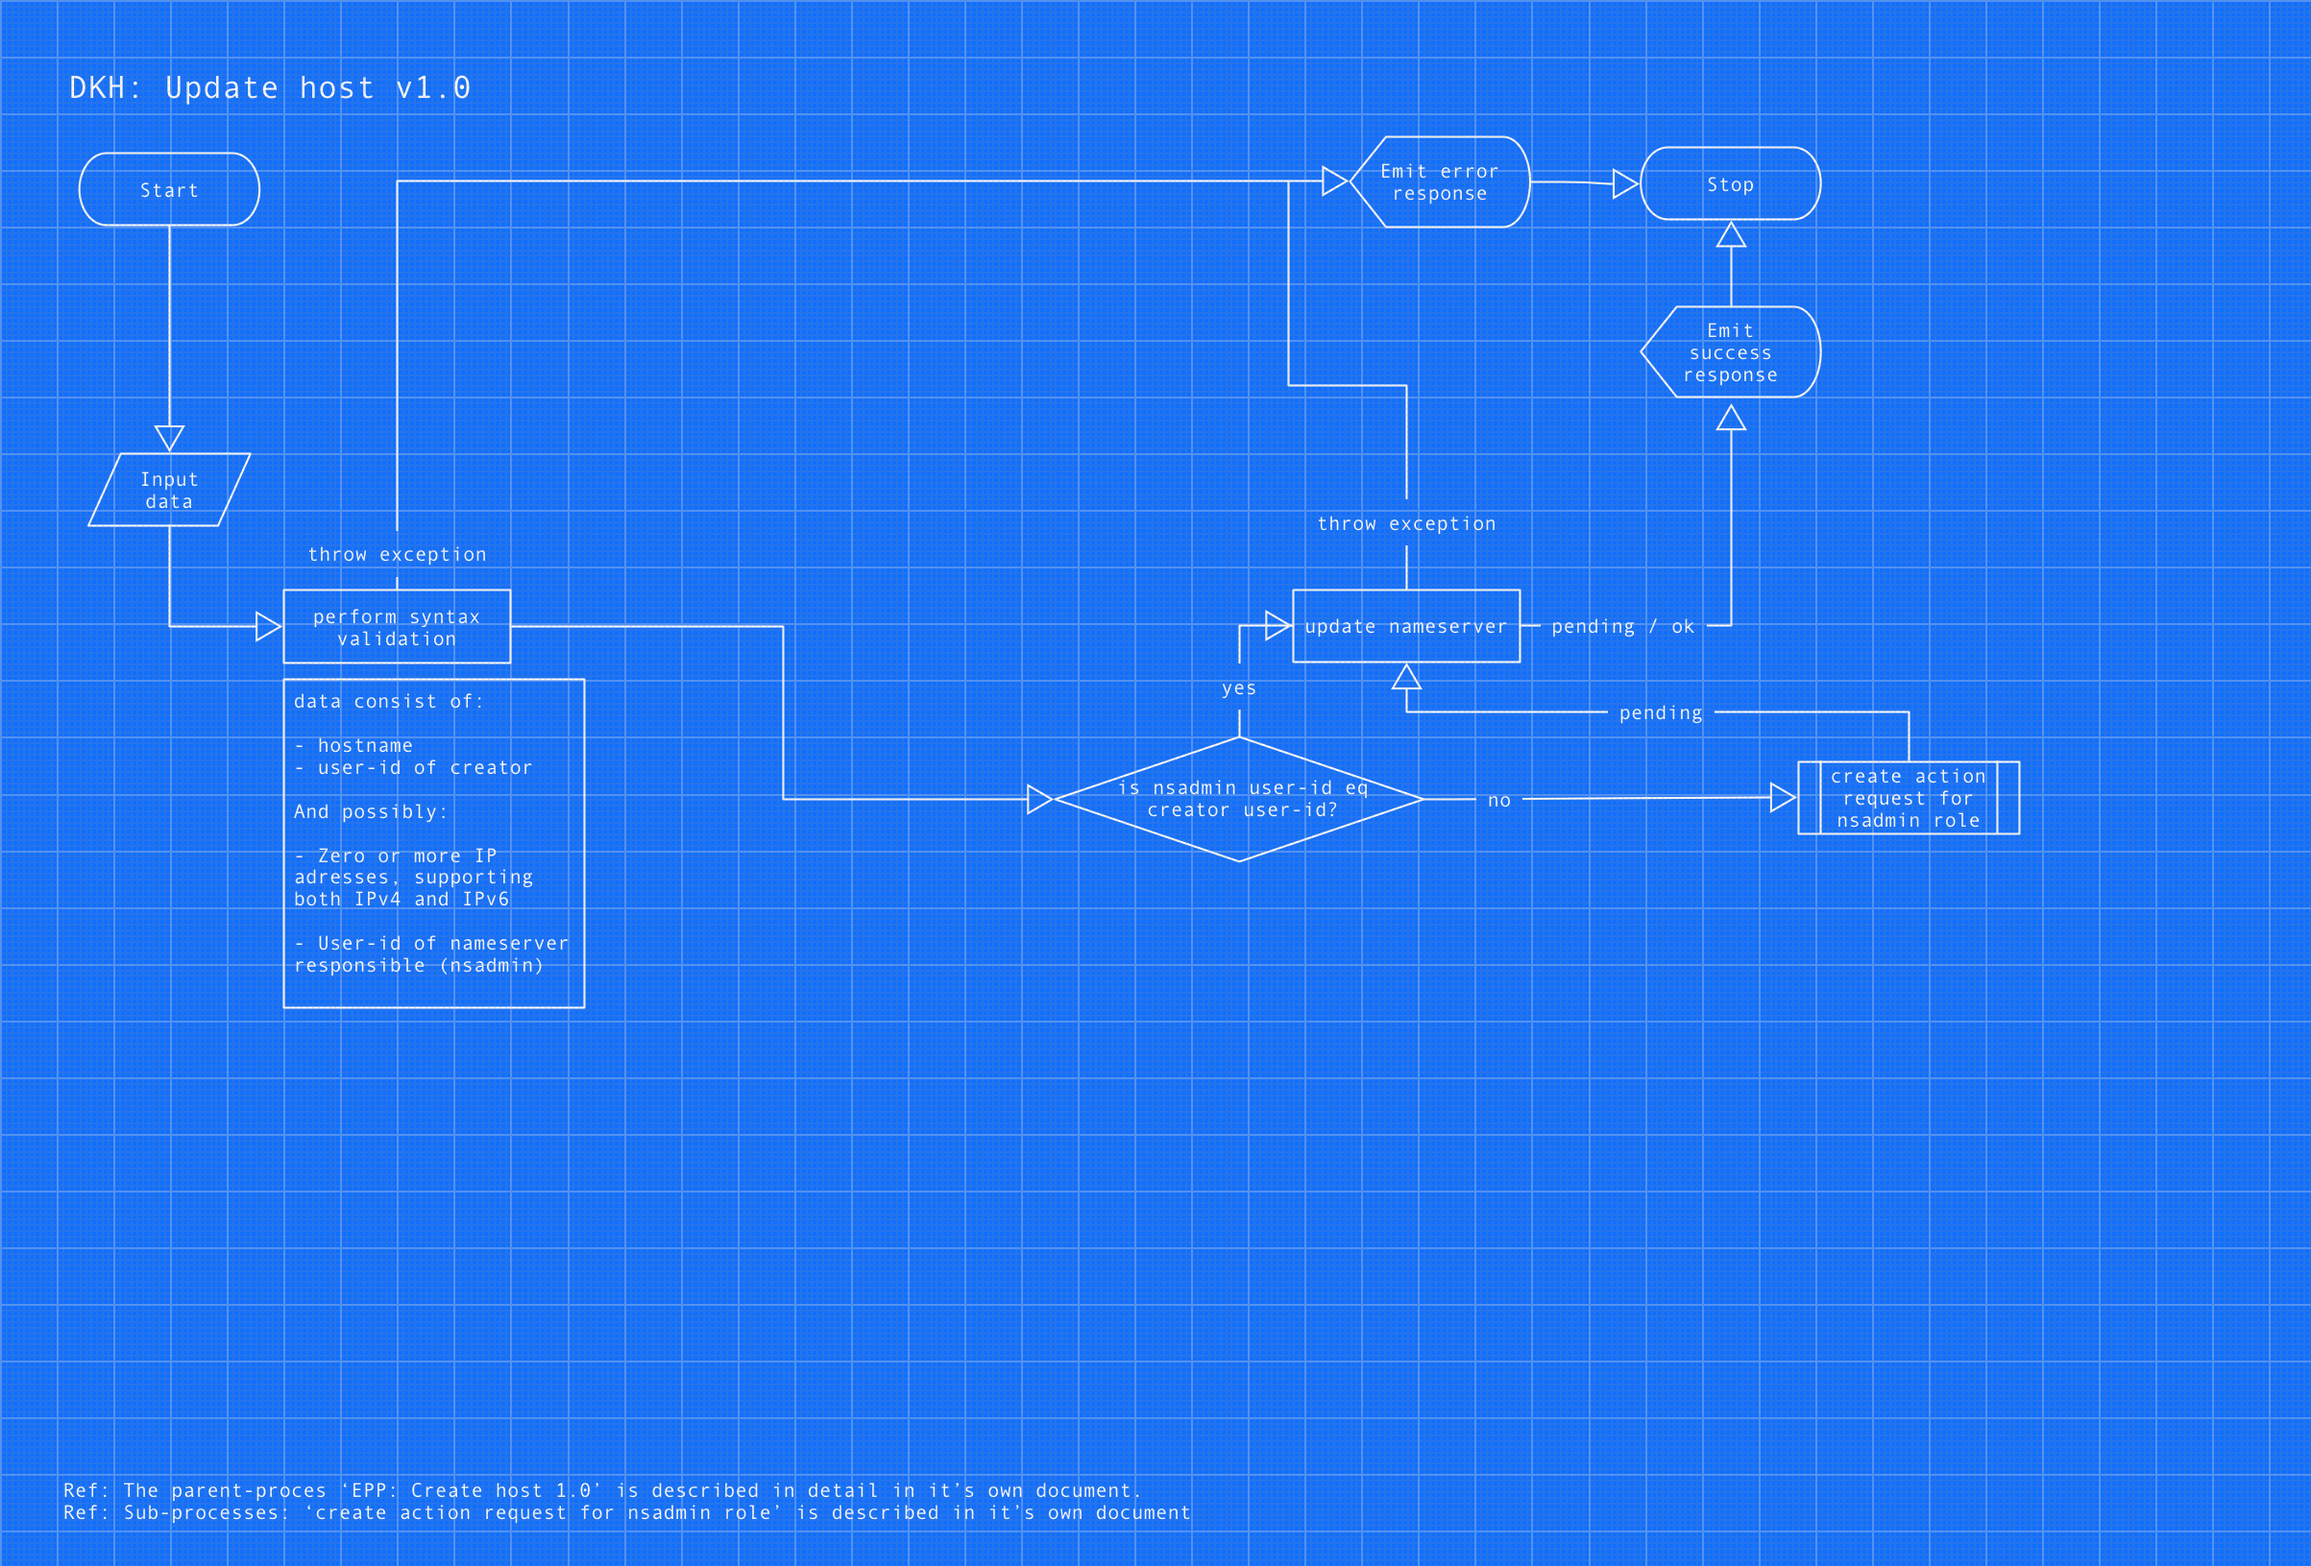
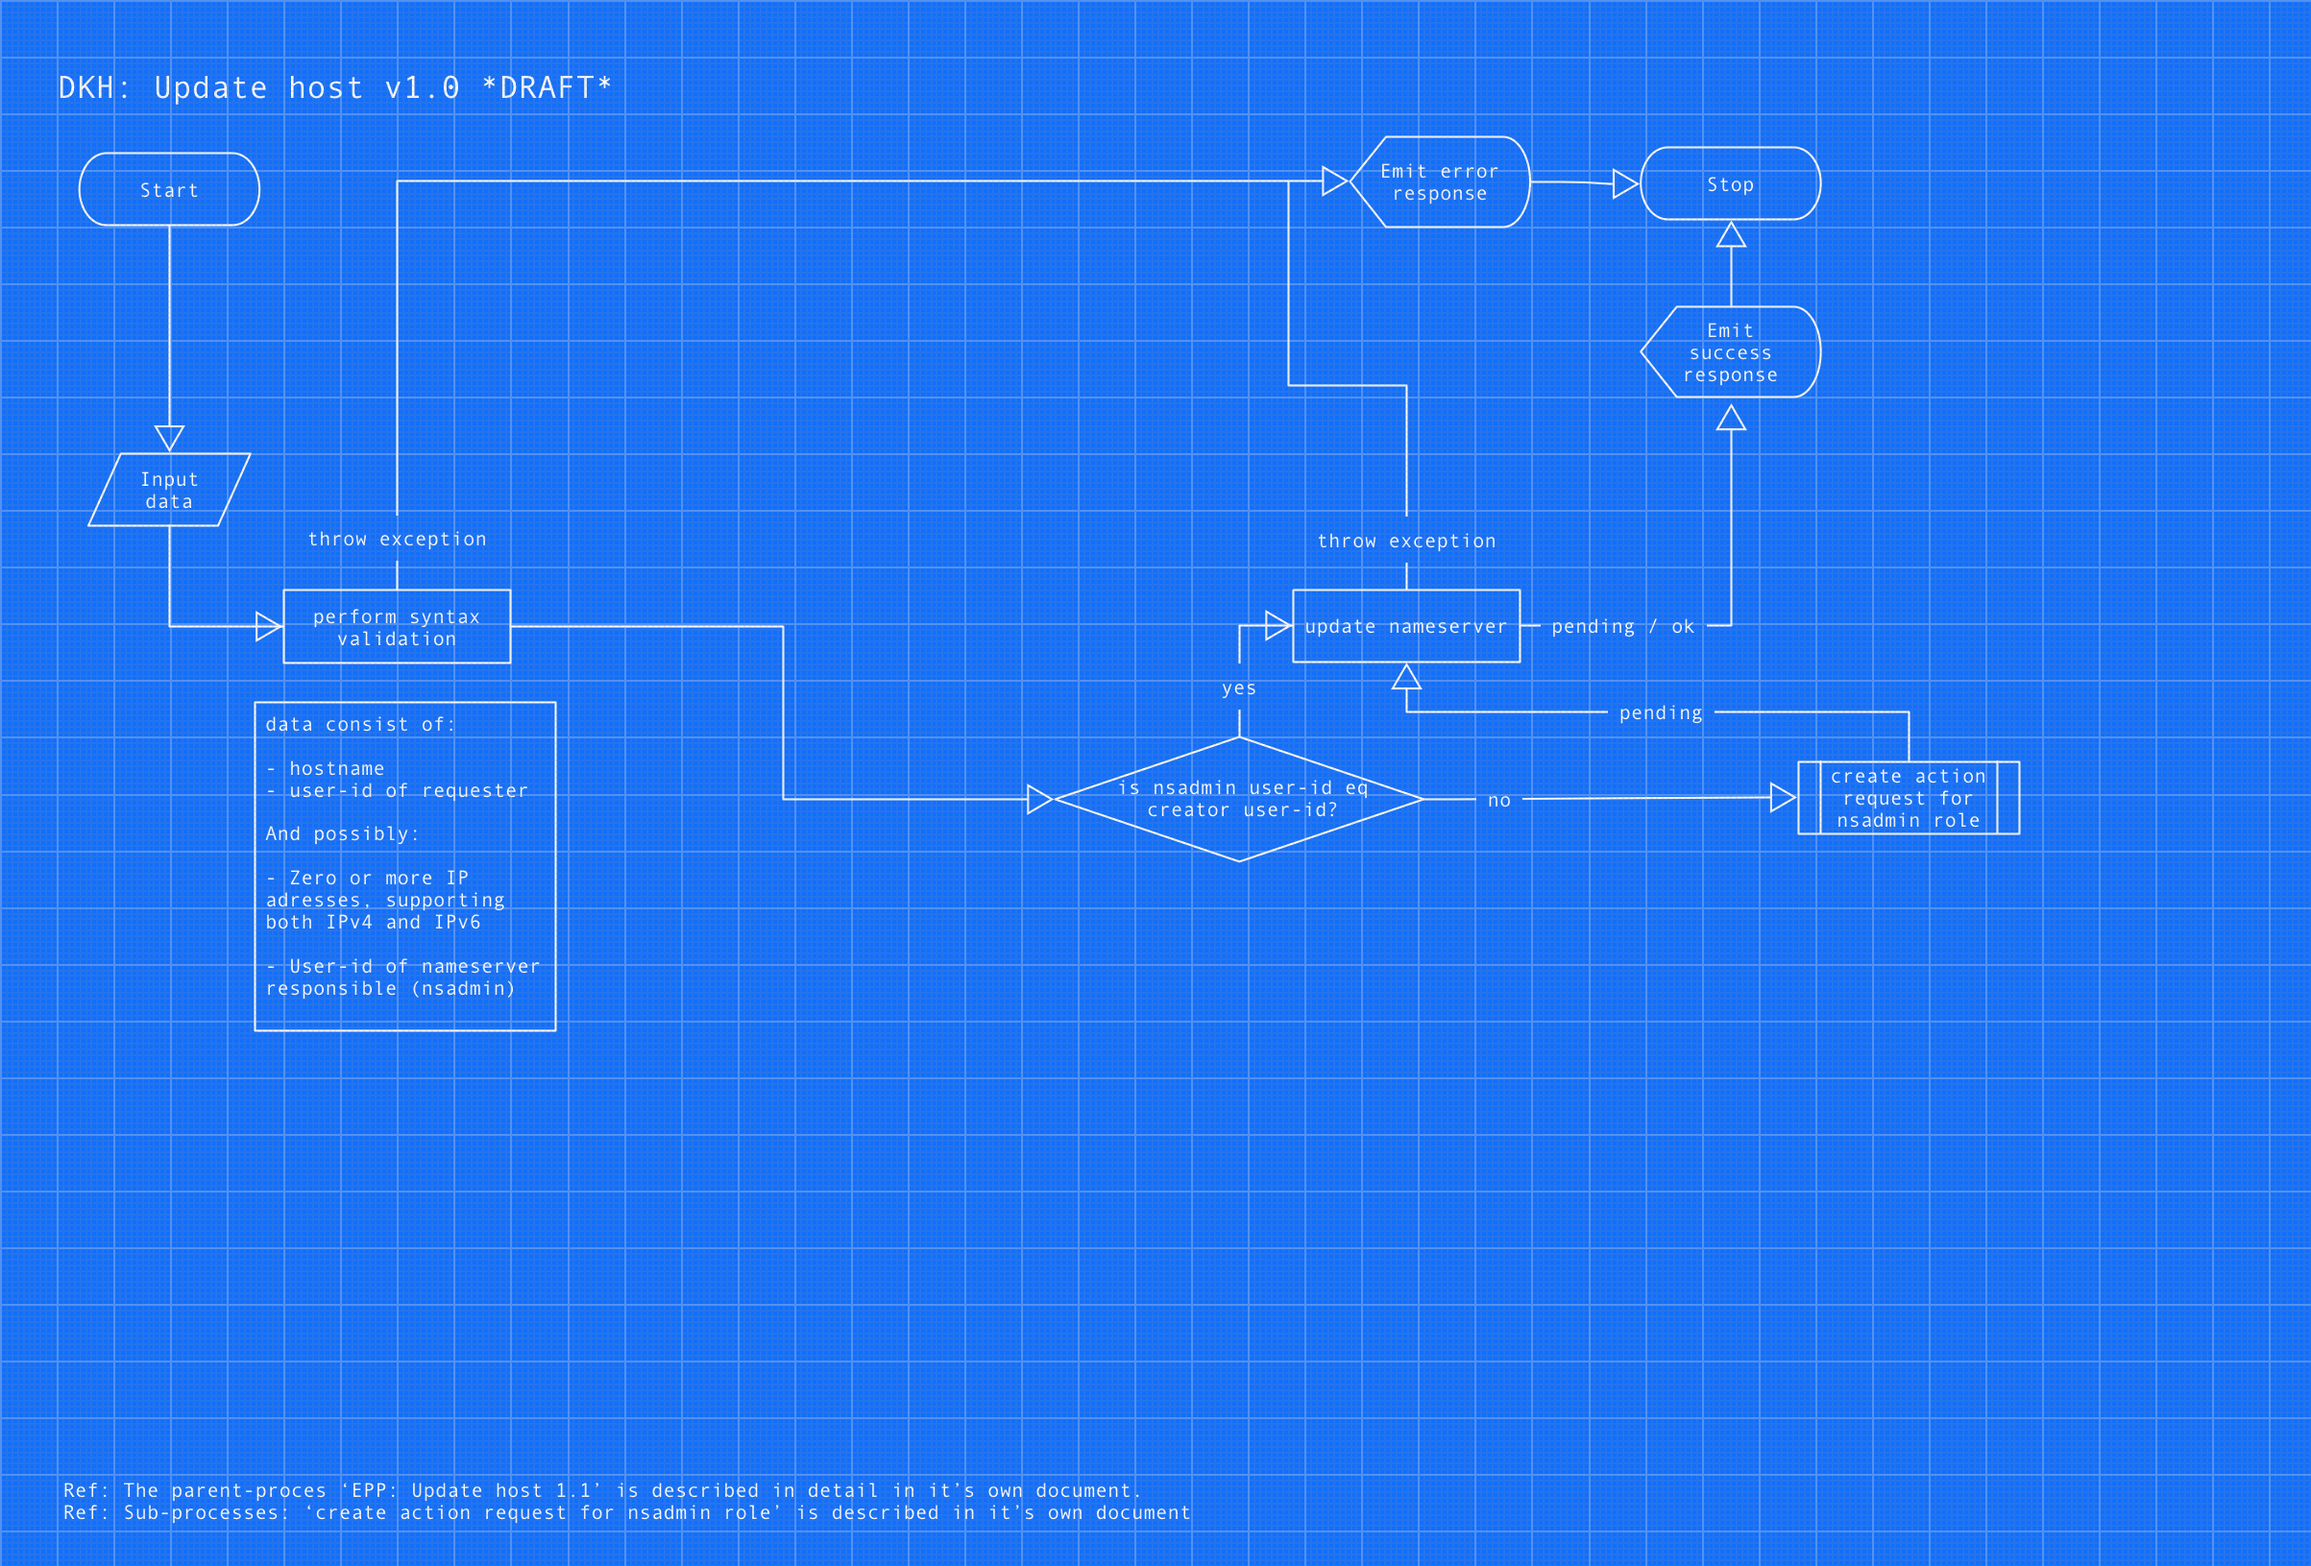
Updated diagrams
Adjusted some of the error codes to more appropriate ones

diff --git a/README.md b/README.md
@@ -1231,20 +1231,46 @@ This part of the EPP protocol is described in [RFC 5732][RFC5732]. This command 
 <a name="proces"></a>
 ### Proces
 
+This is the overall proces, the proces is divided into sub-processes, please see the processes below for details.
+
 ![Diagram of EPP update host][epp_update_host]
 
 <a name="change-hostname-sub-proces"></a>
 ### Change hostname sub-proces
 
+The proces of changing a host name us unsupported by DK Hostmaster and will always result in an error code: `2102`.
+
 ![Diagram of EPP update host change hostname][epp_update_host_change_hostname]
+
+| Return Code  | Description |
+| ------------ | ------------ |
+| 2102 | Change of hostname is not supported |
 
 <a name="add-ip-sub-proces"></a>
 ### Add IP sub-proces
+
+Addition of IP addressed supports the additional of IPv4 and IPv6 adresses. These are required as part of our glue record policy. If additional status elements are added to this command it will fail.
+
+| Return Code  | Description |
+| ------------ | ------------ |
+| 1000 | If the update host command is successful |
+| 2004 | If the specified IP addresses are non-public addresses  |
+| 2005 | Syntax of the command is not correct |
+| 2102 | The command contains status elements |
 
 ![Diagram of EPP update host add IP][epp_update_host_add_ip]
 
 <a name="remove-ip-sub-proces"></a>
 ### Remove IP sub-proces
+
+Addition of IP addressed supports the additional of IPv4 and IPv6 adresses. These are required as part of our glue record policy. If additional status elements are added to this command it will fail.
+
+| Return Code  | Description |
+| ------------ | ------------ |
+| 1000 | If the update host command is successful |
+| 2005 | Syntax of the command is not correct |
+| 2102 | The command contains status elements |
+| 2304 | The number of IP addresses are below the required limit |
 
 ![Diagram of EPP update host remove IP][epp_update_host_remove_ip]
 
@@ -1266,9 +1292,11 @@ The update of a host object can only be requested by the adminstrator of the giv
 | 1001 | If the update host command awaits acknowledgement by the contact-id specified in `dkhm:requestedNsAdmin` |
 | 2004 | If the specified IP addresses are non-public addresses  |
 | 2005 | Syntax of the command is not correct |
+| 2102 | The command contains status elements |
 | 2201 | If the authenticated user does not hold the privilege to update the specified host object |
 | 2303 | If the specified host object does not exist |
 | 2303 | If the contact-id pointed to in `dkhm:requestedNsAdmin` points to a non-existing contact object |
+| 2304 | The number of IP addresses are below the required limit |
 
 As for update domain `1001` holds higher precendence than `1000`, so if any of the sub-commands require additional review and are _pending_, the return code will be `1001`.
 
